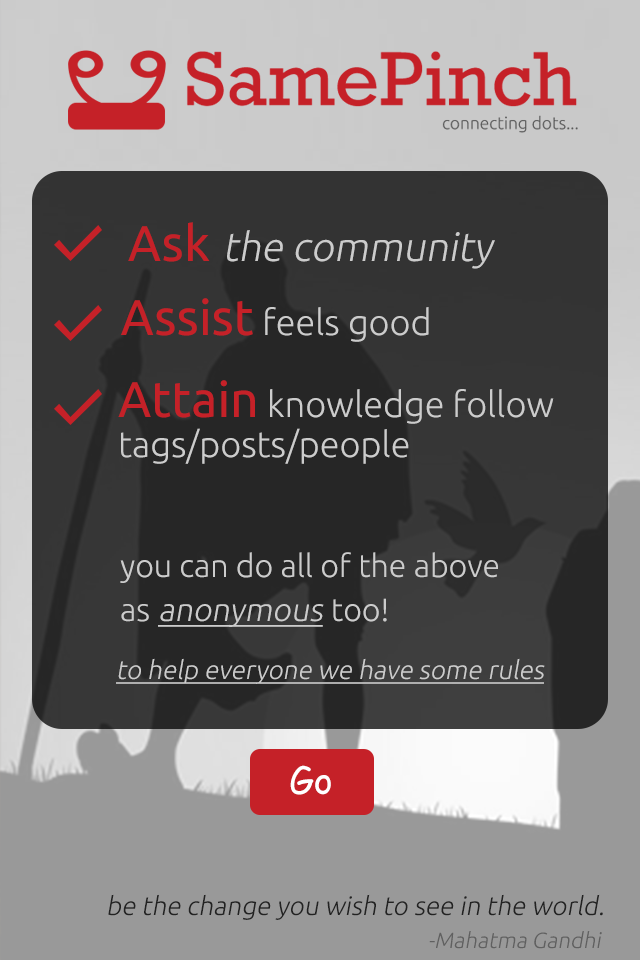
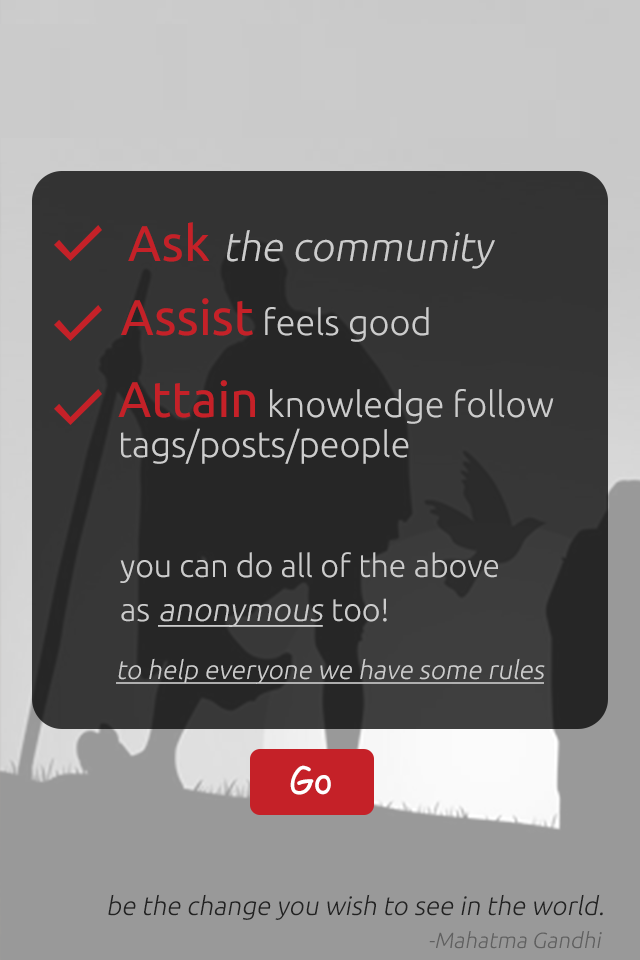
Updates for UI

Changed region(s): [[0.0938, 0.0312, 0.9062, 0.1562]]

diff --git a/Msocl_iOS/Controllers/Onboarding/OnboardingViewController.m b/Msocl_iOS/Controllers/Onboarding/OnboardingViewController.m
@@ -105,12 +105,22 @@
         tour_ImageView.image = [UIImage imageNamed:@"tour0-4.png"];
         
         iAmInBtn.frame = CGRectMake(115, 370, 80, 40);
+        
+        UIImageView *logoImage = [[UIImageView alloc] initWithFrame:CGRectMake(40, 21, 240, 56)];
+        [logoImage setImage:[UIImage imageNamed:@"icon-login.png"]];
+        [tour_ImageView addSubview:logoImage];
+
     }
     else
     {
         tour_ImageView.image = [UIImage imageNamed:@"tour_0.png"];
         hyperLinkButton.frame = CGRectMake(0, 380, 320, 40);
         iAmInBtn.frame = CGRectMake(115, 429, 80, 40);
+        
+        UIImageView *logoImage = [[UIImageView alloc] initWithFrame:CGRectMake(40, 54, 240, 56)];
+        [logoImage setImage:[UIImage imageNamed:@"icon-login.png"]];
+        [tour_ImageView addSubview:logoImage];
+
 
     }
     
